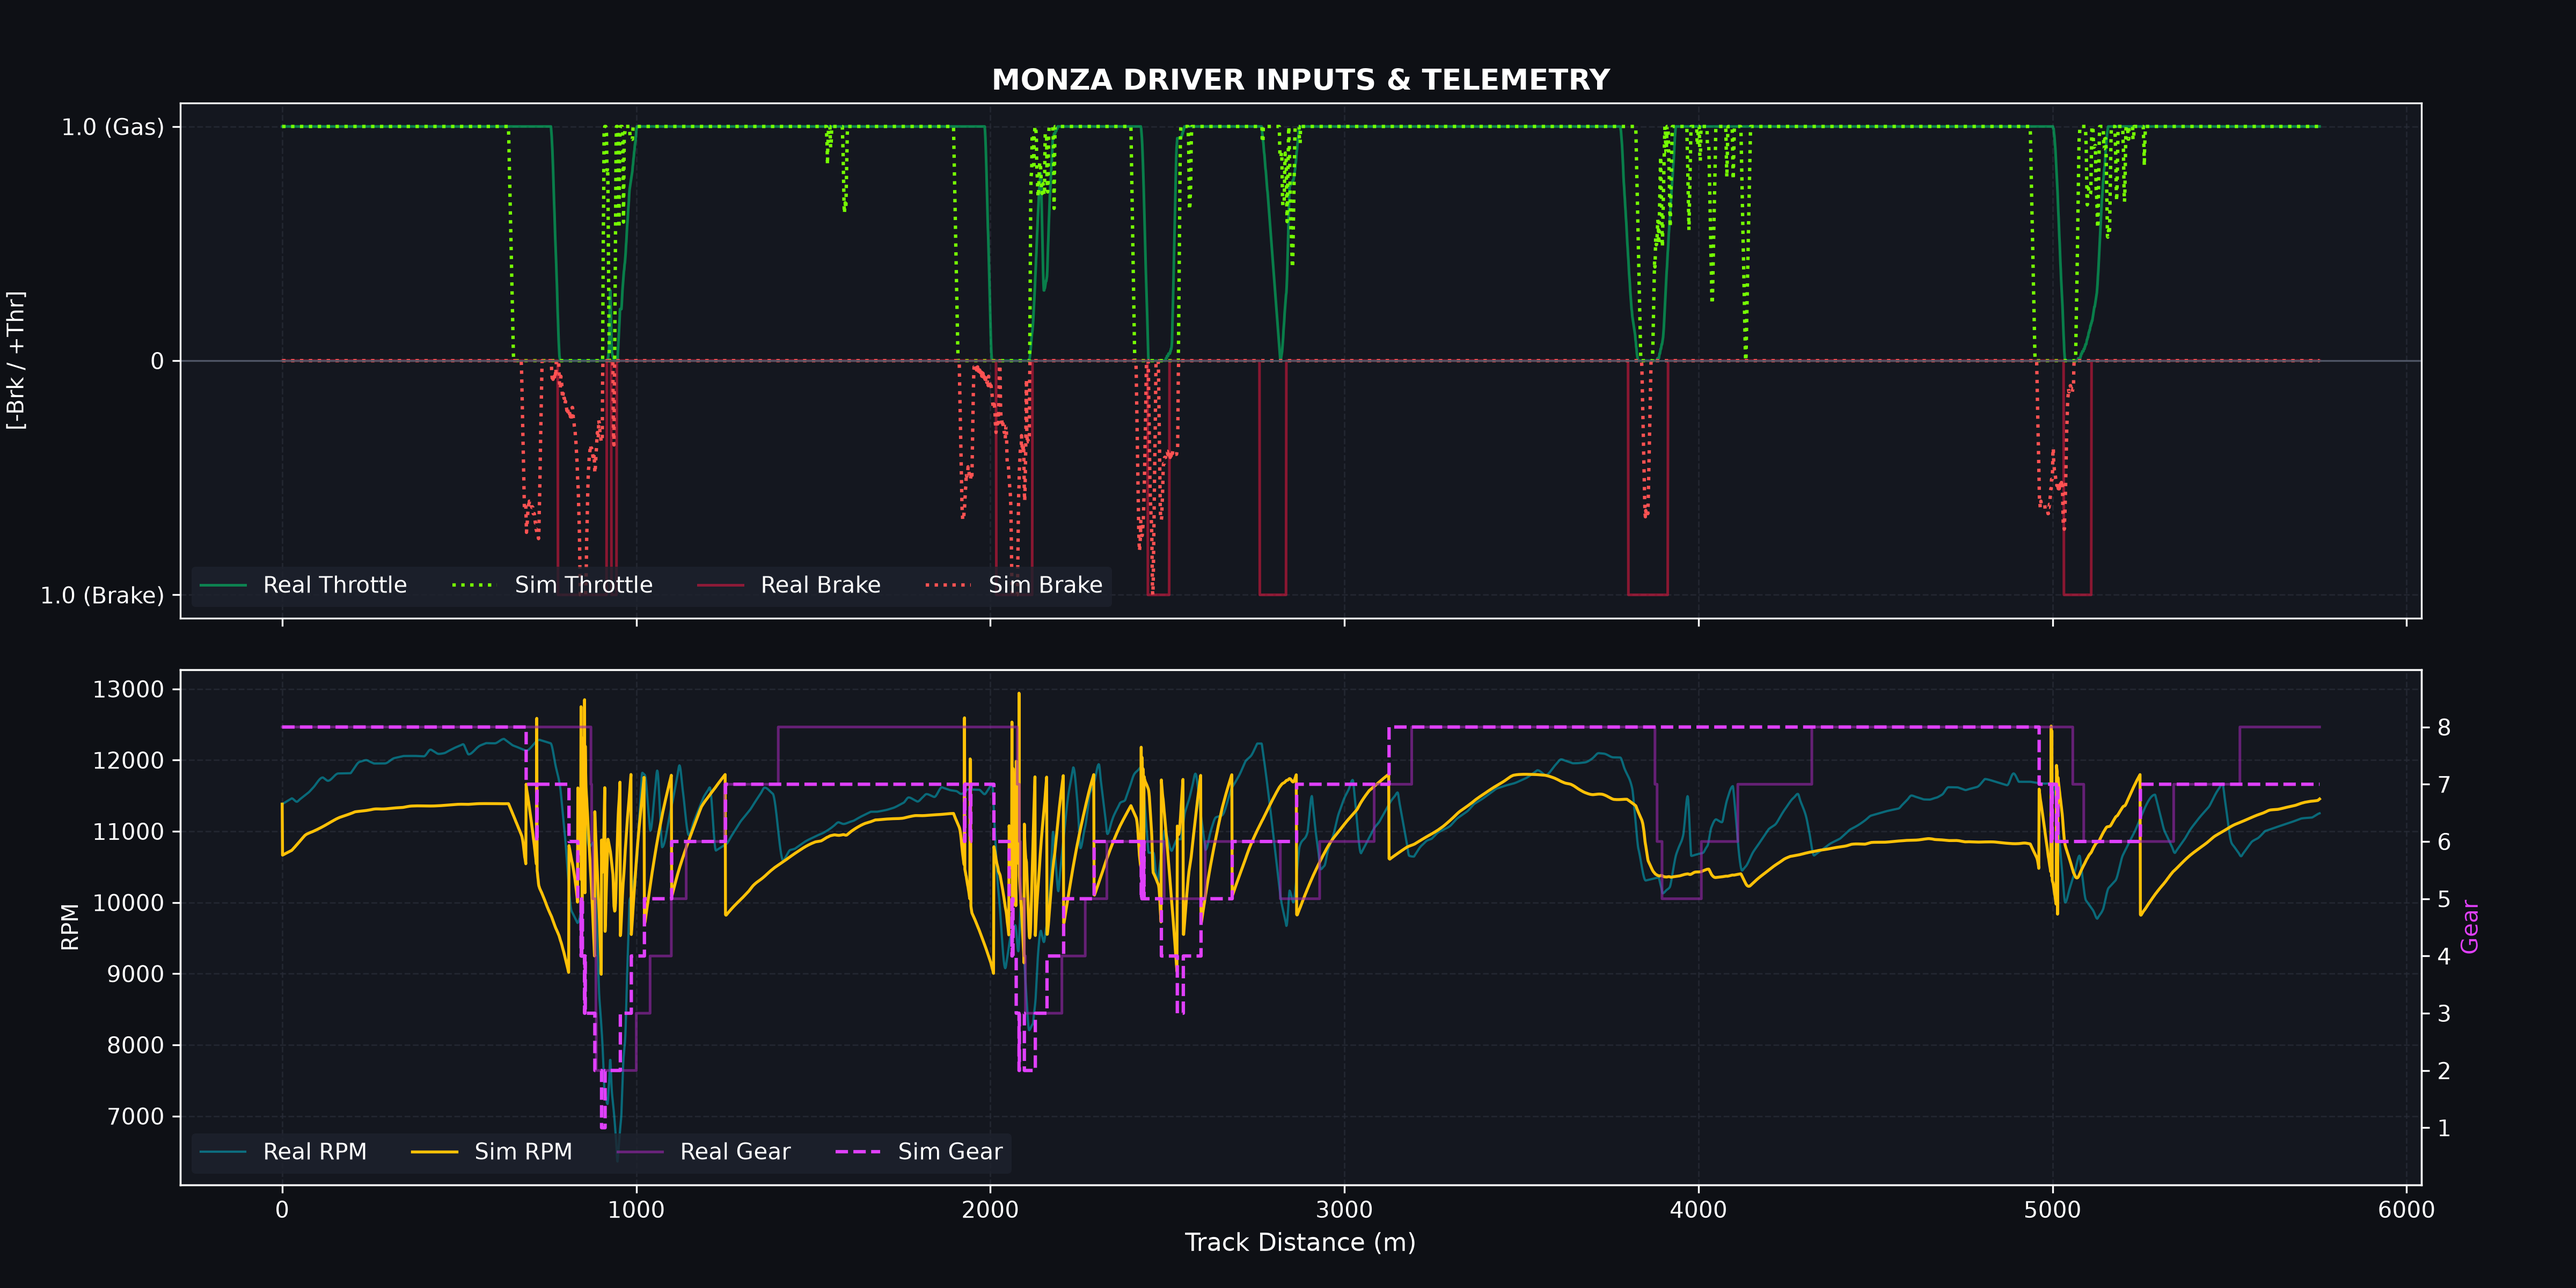
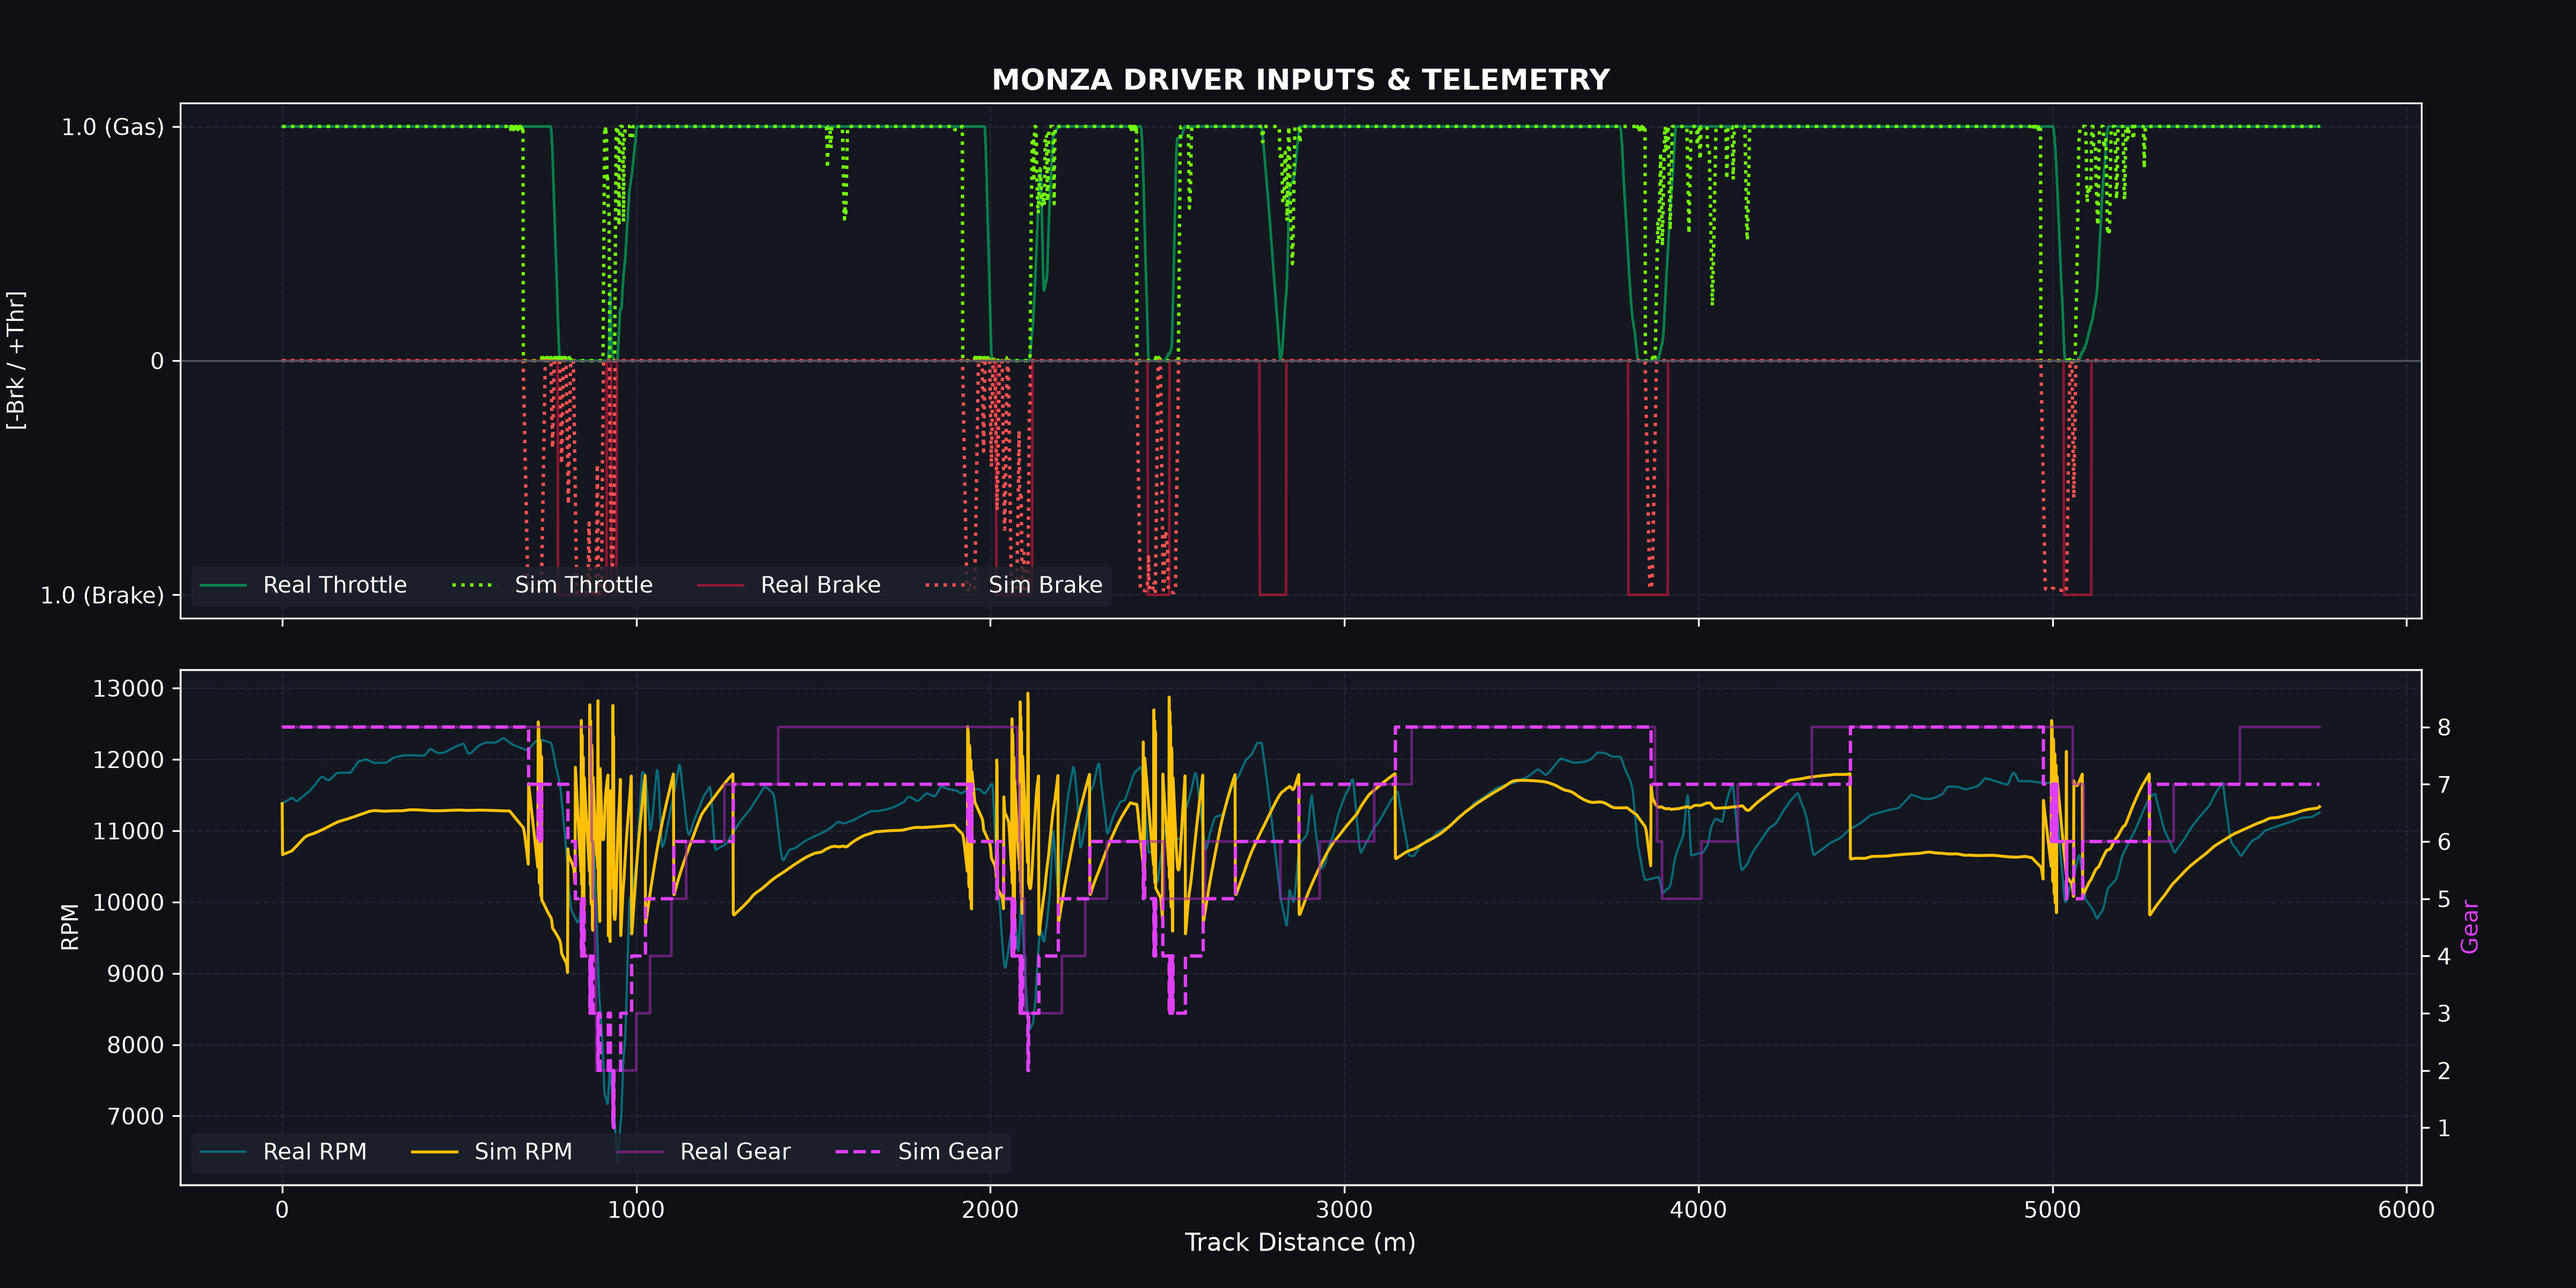
refined some code around the braking by removing the DECEL_RATE entirely which made a braking max of 5G to a limit on the brake force mechanically which searching yielded a result of 45000N being our limit on the braking

diff --git a/src/main.cpp b/src/main.cpp
@@ -18,8 +18,8 @@
 int main(int argc, char* argv[]) {
 
     if (argc < 4) {
-        std::cout << "Correct usage: " << argv[0] << "<year> <track> <session>" << std::endl;
-        std::cout << "example: " << argv[0] << "2023 Baku Q" << std::endl;
+        std::cout << "Correct usage: " << argv[0] << " <year> <track> <session>" << std::endl;
+        std::cout << "example: " << argv[0] << " 2023 Baku Q" << std::endl;
         return 1;
     }
 
@@ -54,9 +54,6 @@ int main(int argc, char* argv[]) {
     std::vector<CarSetup> setups(Config::NUM_SETUPS);
     std::vector<SimResult> results(Config::NUM_SETUPS);
 
-
-    // after getting the battery and fixing some imperfections as to not taking the Z of the track, we will 
-    // see different ways to change setups*
     std::mt19937 gen(888); 
     std::uniform_real_distribution<float> ice_dist(380.0f, 420.0f);
     std::uniform_real_distribution<float> mguk_dist(300.0f, 350.0f);
